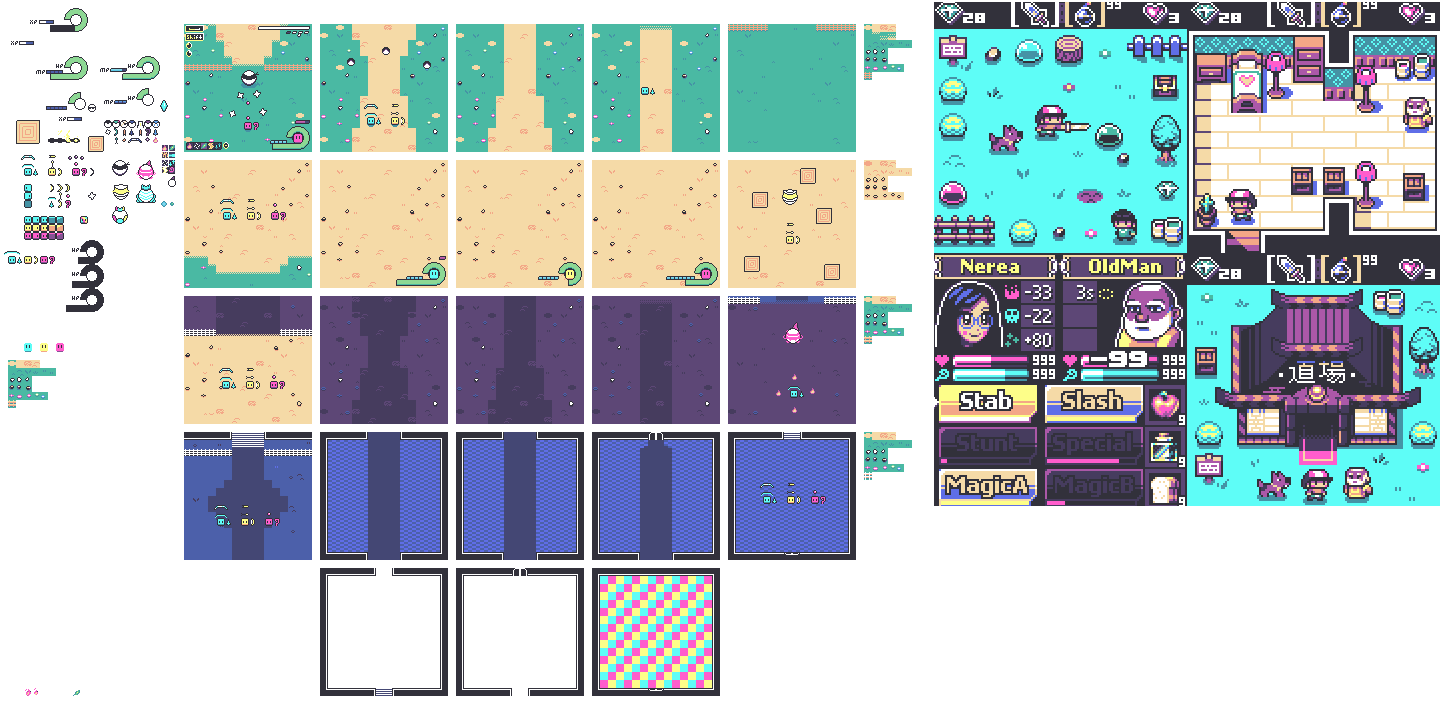
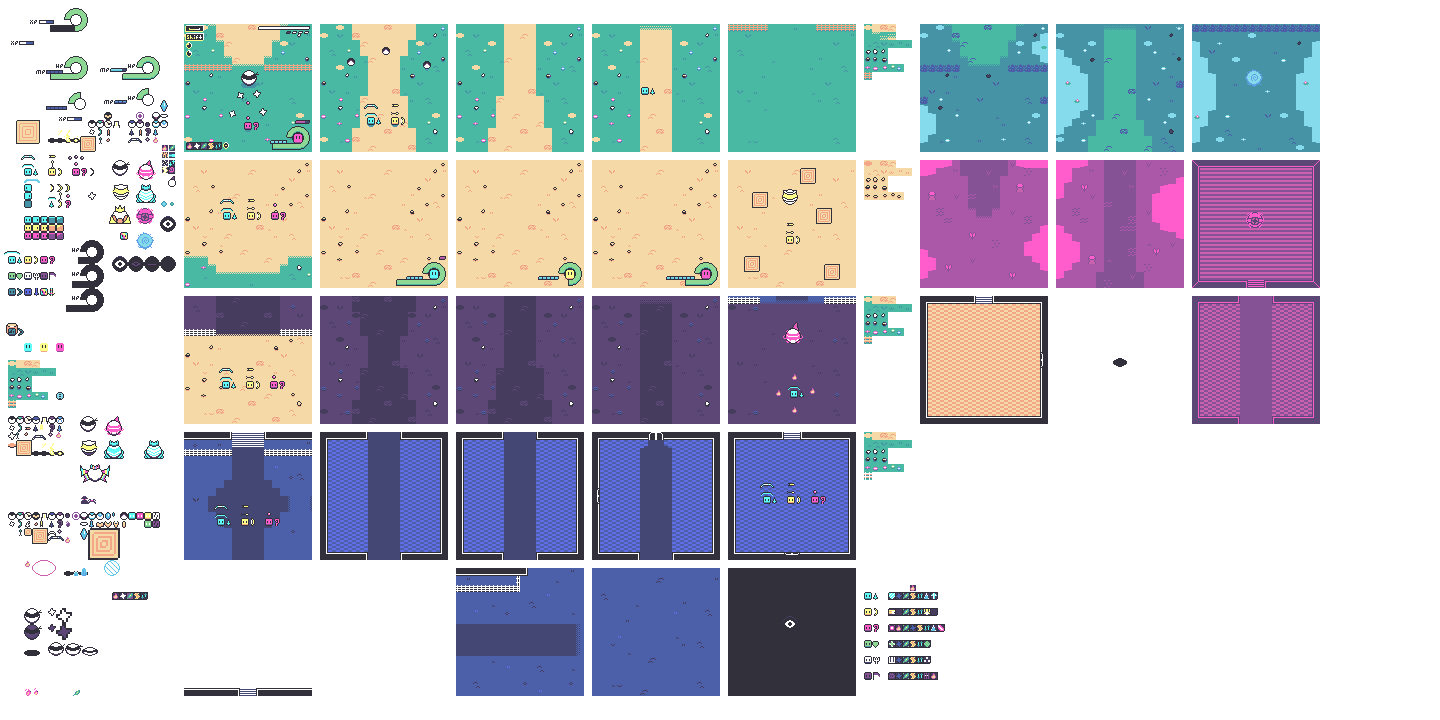
version2

diff --git a/audio.py b/audio.py
@@ -10,19 +10,19 @@ class Music:
     the_enchanted_forest = pygame.mixer.Sound("Assets/Audio/Music/Areas/the_enchanted_forest.mp3") ; the_enchanted_forest.set_volume(0.9)
     the_castle = pygame.mixer.Sound("Assets/Audio/Music/Areas/the_castle.mp3"); the_castle.set_volume(0.8)
     
-    area_music = [the_plains,the_desert,the_enchanted_forest,the_castle,title_music] #make sure to have it minus of the other area due to the index!
+    area_music = [the_plains,the_desert,the_enchanted_forest,the_castle,title_music,title_music,title_music,title_music,title_music] #make sure to have it minus of the other area due to the index!
 
     the_rogue = pygame.mixer.Sound("Assets/Audio/Music/Bosses/the_rogue.mp3"); the_rogue.set_volume(0.9)
     the_guardian = pygame.mixer.Sound("Assets/Audio/Music/Bosses/the_guardian.mp3"); the_guardian.set_volume(0.9)
     the_wizard = pygame.mixer.Sound("Assets/Audio/Music/Bosses/the_sorcerer.mp3"); the_wizard.set_volume(0.9)
     the_prince = pygame.mixer.Sound("Assets/Audio/Music/Bosses/the_prince.mp3"); the_prince.set_volume(0.9)
     the_empress = pygame.mixer.Sound("Assets/Audio/Music/Bosses/the_empress.mp3"); the_empress.set_volume(0.9)
-    boss_music = [the_rogue,the_guardian,the_wizard,the_prince,the_empress]
+    boss_music = [the_rogue,the_guardian,the_wizard,the_prince,the_empress,the_empress,the_empress,the_empress]
 
     the_haunter = pygame.mixer.Sound("Assets/Audio/Music/Bosses/the_haunter.mp3"); the_haunter.set_volume(1.2) #area 3 miniboss
     the_librarian = pygame.mixer.Sound("Assets/Audio/Music/Bosses/the_librarian.mp3"); the_librarian.set_volume(1.1)
     the_fallen = pygame.mixer.Sound("Assets/Audio/Music/Bosses/the_fallen.mp3"); the_fallen.set_volume(10.0) #final miniboss
-    miniboss_music = [the_haunter,the_librarian,the_fallen]
+    miniboss_music = [the_haunter,the_librarian,the_fallen,the_fallen,the_fallen,the_fallen]
 
 class SFX: #All the SFX are stored as variables in a class to be played at anytime!
     health_orb = pygame.mixer.Sound('Assets/Audio/SFX/Objects/health_orb.wav'); health_orb.set_volume(1.5)

diff --git a/main.py b/main.py
@@ -46,7 +46,7 @@ class Game:
         self.intro_background = pygame.image.load("Assets/World/map.png").convert()
         self.intro_background.set_alpha(2)
         self.level = 1
-        self.area = 1
+        self.area = 6
 
         self.level_cleared = True
         self.player_power = 0
